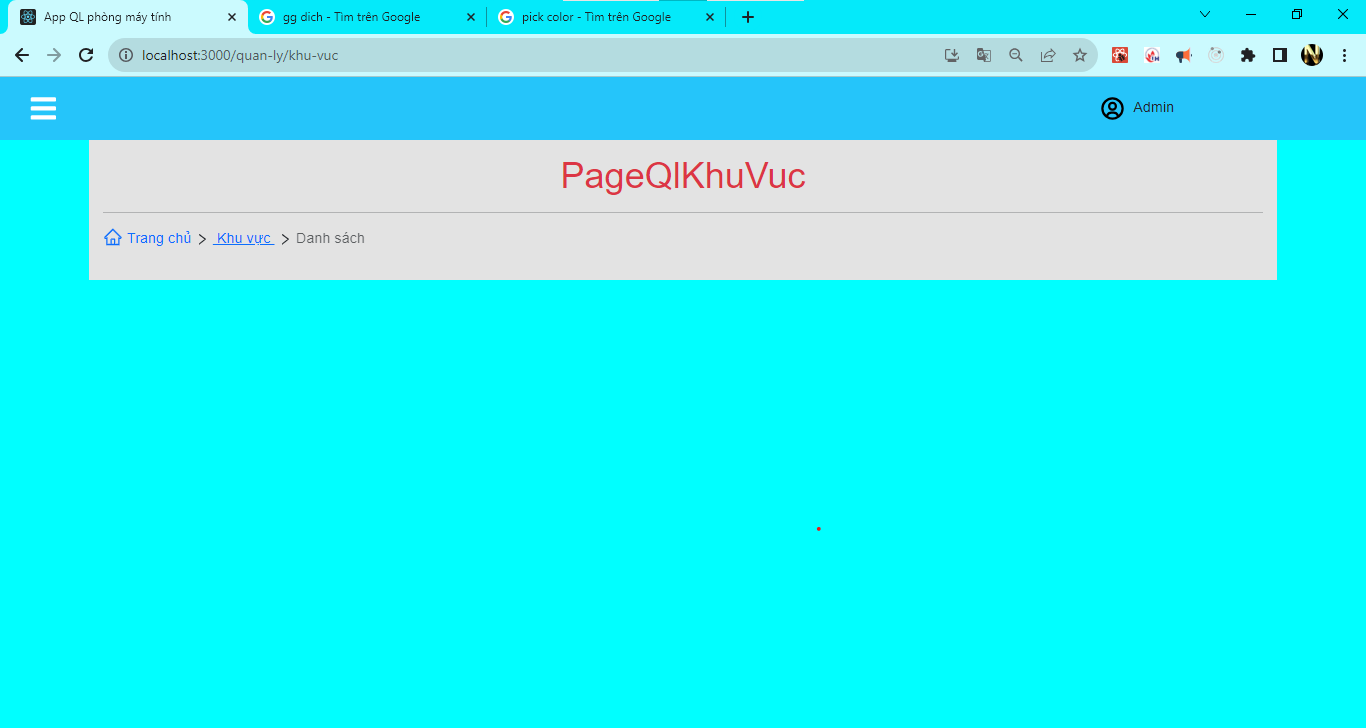
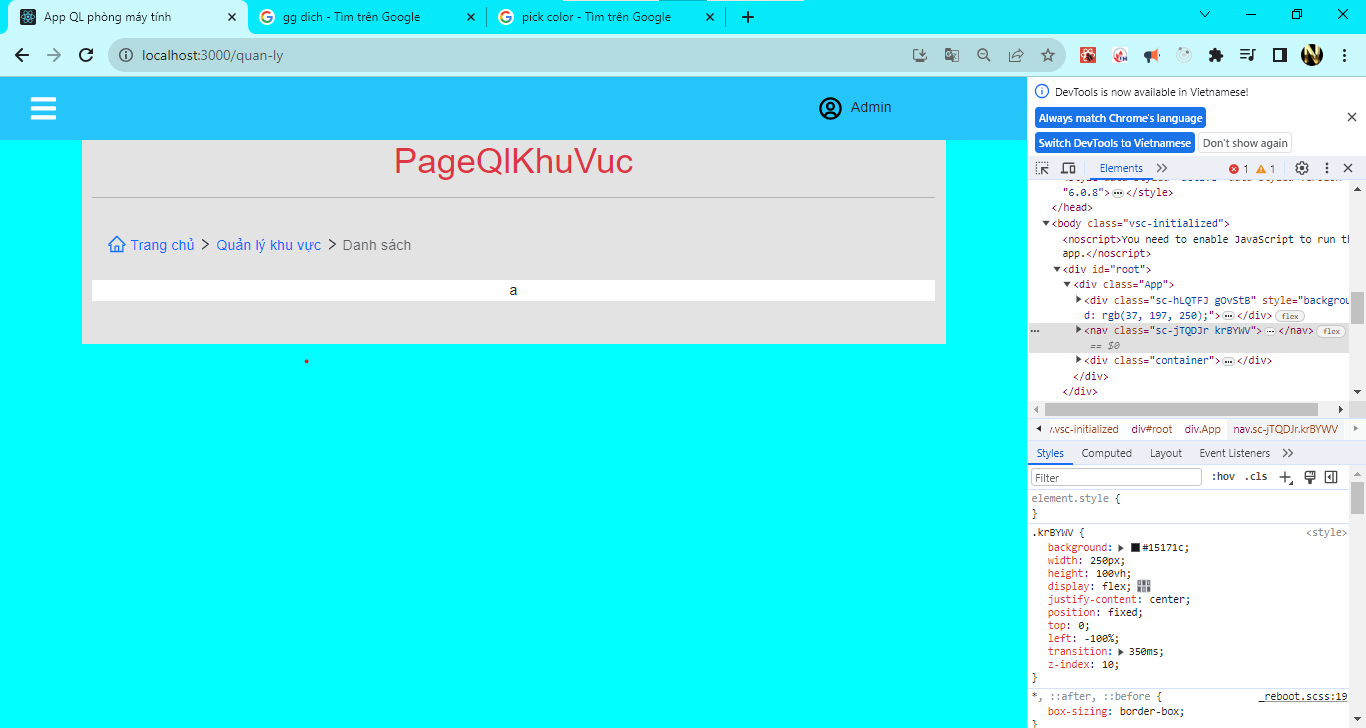
finish navTab

diff --git a/src/components/common/NavTab/NavTab.jsx b/src/components/common/NavTab/NavTab.jsx
@@ -1,0 +1,31 @@
+import React from 'react'
+import { AiOutlineRight, AiOutlineHome } from "react-icons/ai";
+import { NavLink } from "react-router-dom";
+
+function NavTab(props) {
+    // itemLink=    {name:'Khu vực', chucNang:'Danh sách'}
+
+    /**
+     * name: chi nơi ở hiên tại 
+     * chucNang: xe hiện ra ở component này
+     */
+    let {name,chucNang} = props.itemLink;
+
+
+  return (
+    <div className='py-4 px-3'>
+      <div className="d-flex justify-content-start">
+          <NavLink style={{ textDecorationLine: "none" }} to="../../">
+            <AiOutlineHome style={{ marginBottom: "5px", fontSize: "22px",  }} />{" "}
+            Trang chủ
+          </NavLink>
+          <AiOutlineRight className="mx-1 mt-1" />
+          <NavLink style={{ textDecorationLine: "none", marginTop:'1px' }} to="">{name}</NavLink>
+          <AiOutlineRight className="mx-1 mt-1" />
+          <span style={{ opacity: 0.7, marginTop:'1px' }}>{chucNang}</span>
+        </div>
+    </div>
+  ) 
+}
+
+export default NavTab

diff --git a/src/index.js b/src/index.js
@@ -8,7 +8,8 @@ import "./assets/scss/style.scss";
 import { BrowserRouter, Routes, Route } from "react-router-dom";
 import Page404 from "./pages/Page404/Page404";
 import PageHome from "./pages/PageHome/PageHome";
-import PageQlKhuVuc from "./pages/PageKhuVuc/PageQlKhuVuc";
+import PageQlKhuVuc from "./pages/PageQuanLy/PageQlKhuVuc";
+import PageQLPhongMay from "./pages/PageQuanLy/PageQLPhongMay";
 
 const root = ReactDOM.createRoot(document.getElementById("root"));
 root.render(
@@ -16,7 +17,9 @@ root.render(
     <Routes>
       <Route path="" element={<App />}>
         <Route path="" element={<PageHome />}></Route>
+        <Route path="/quan-ly" element={<PageQlKhuVuc />}></Route>
         <Route path="/quan-ly/khu-vuc" element={<PageQlKhuVuc />}></Route>
+        <Route path="/quan-ly/phong" element={<PageQLPhongMay />}></Route>
         <Route path="*" element={<Page404 />}></Route>
       </Route>
     </Routes>

diff --git a/src/pages/PageQuanLy/PageQlKhuVuc.jsx b/src/pages/PageQuanLy/PageQlKhuVuc.jsx
@@ -1,0 +1,25 @@
+import React from "react";
+import PropTypes from "prop-types";
+import { AiOutlineRight, AiOutlineHome } from "react-icons/ai";
+import { NavLink } from "react-router-dom";
+import NavTab from "../../components/common/NavTab/NavTab";
+
+const PageQlKhuVuc = (props) => {
+  return (
+    <div className="container">
+      <h1 className="text-center text-danger">PageQlKhuVuc</h1>
+      <hr />
+
+
+      <NavTab itemLink={
+        {name:'Quản lý khu vực', chucNang:'Danh sách'}
+        } />
+      <div className="bg-white w h-100">a</div>
+      <div className="p-4"></div>
+    </div>
+  );
+};
+
+PageQlKhuVuc.propTypes = {};
+
+export default PageQlKhuVuc;

diff --git a/src/pages/PageQuanLy/PageQLPhongMay.jsx b/src/pages/PageQuanLy/PageQLPhongMay.jsx
@@ -1,0 +1,19 @@
+import React from 'react'
+import PropTypes from 'prop-types'
+import NavTab from '../../components/common/NavTab/NavTab'
+
+const PageQLPhongMay = props => {
+  return (
+    <div className='container'>
+      <NavTab itemLink={
+        {name:'Quản lý phòng máy', chucNang:'Danh sách'}
+        } />
+    </div>
+  )
+}
+
+PageQLPhongMay.propTypes = {
+
+}
+
+export default PageQLPhongMay
